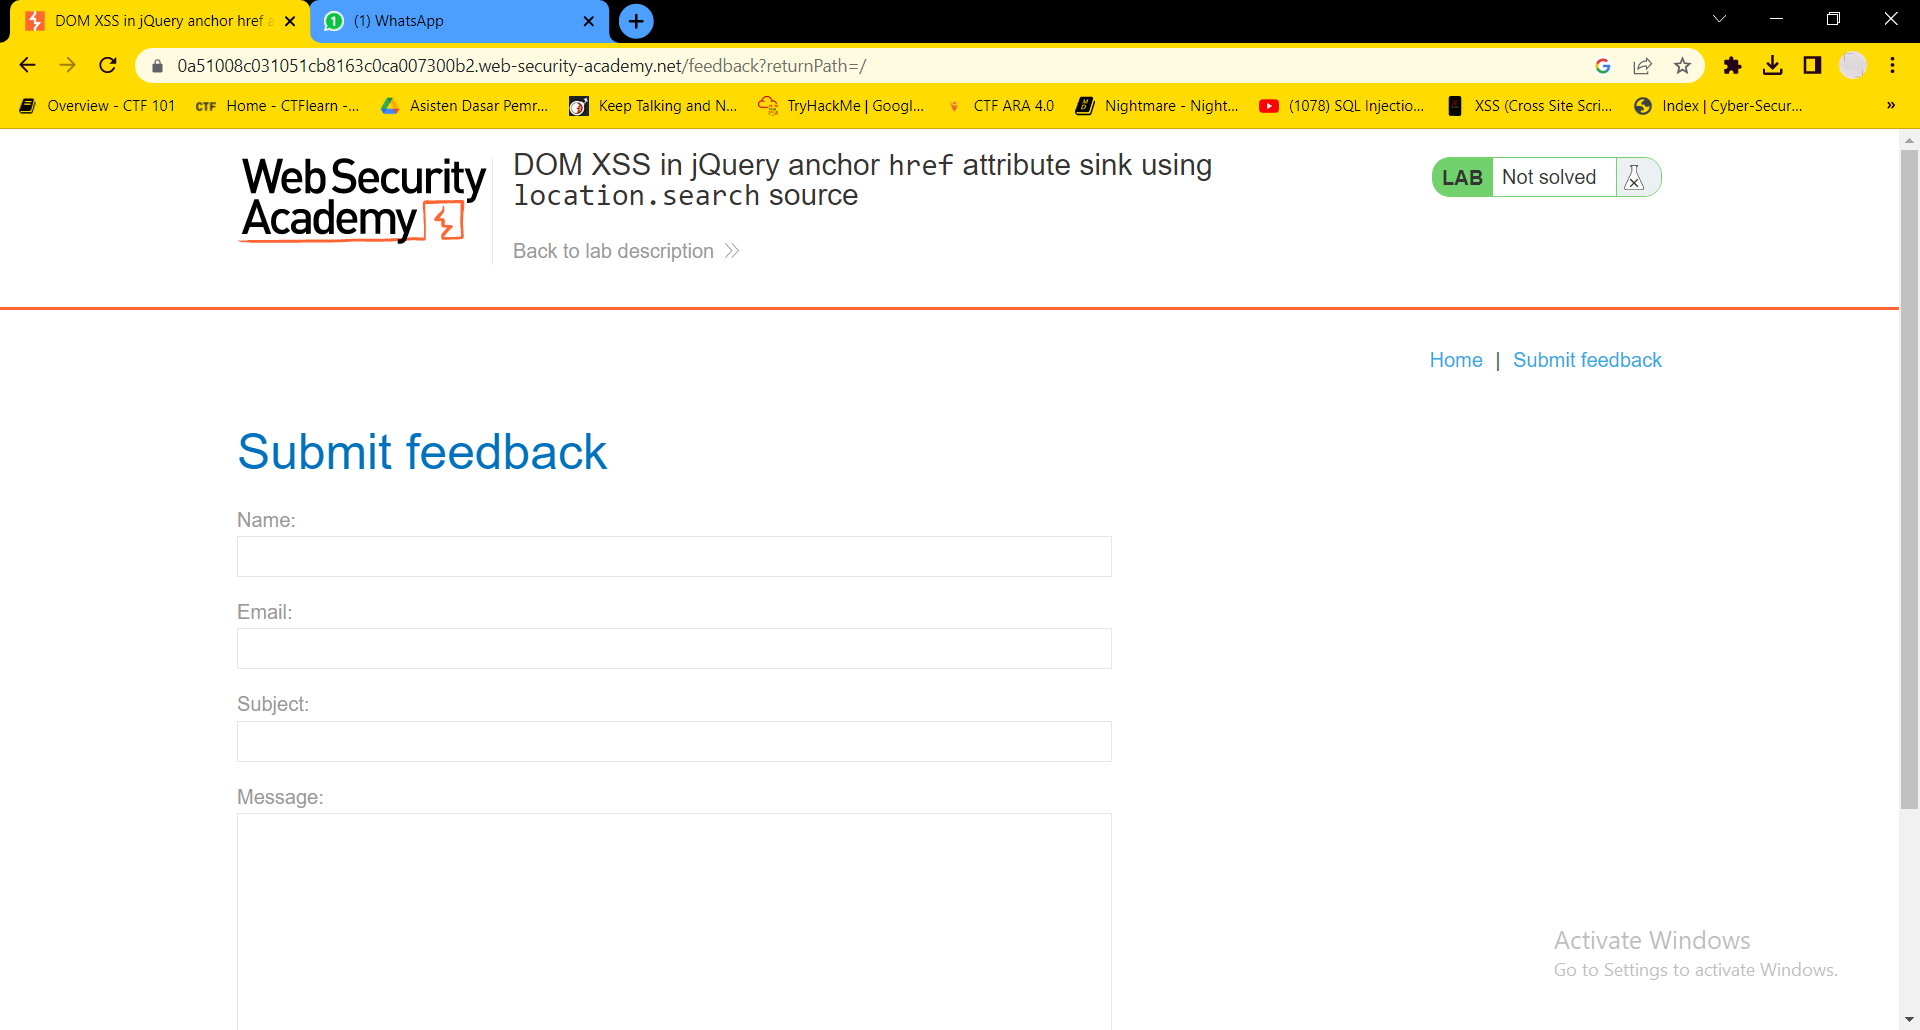
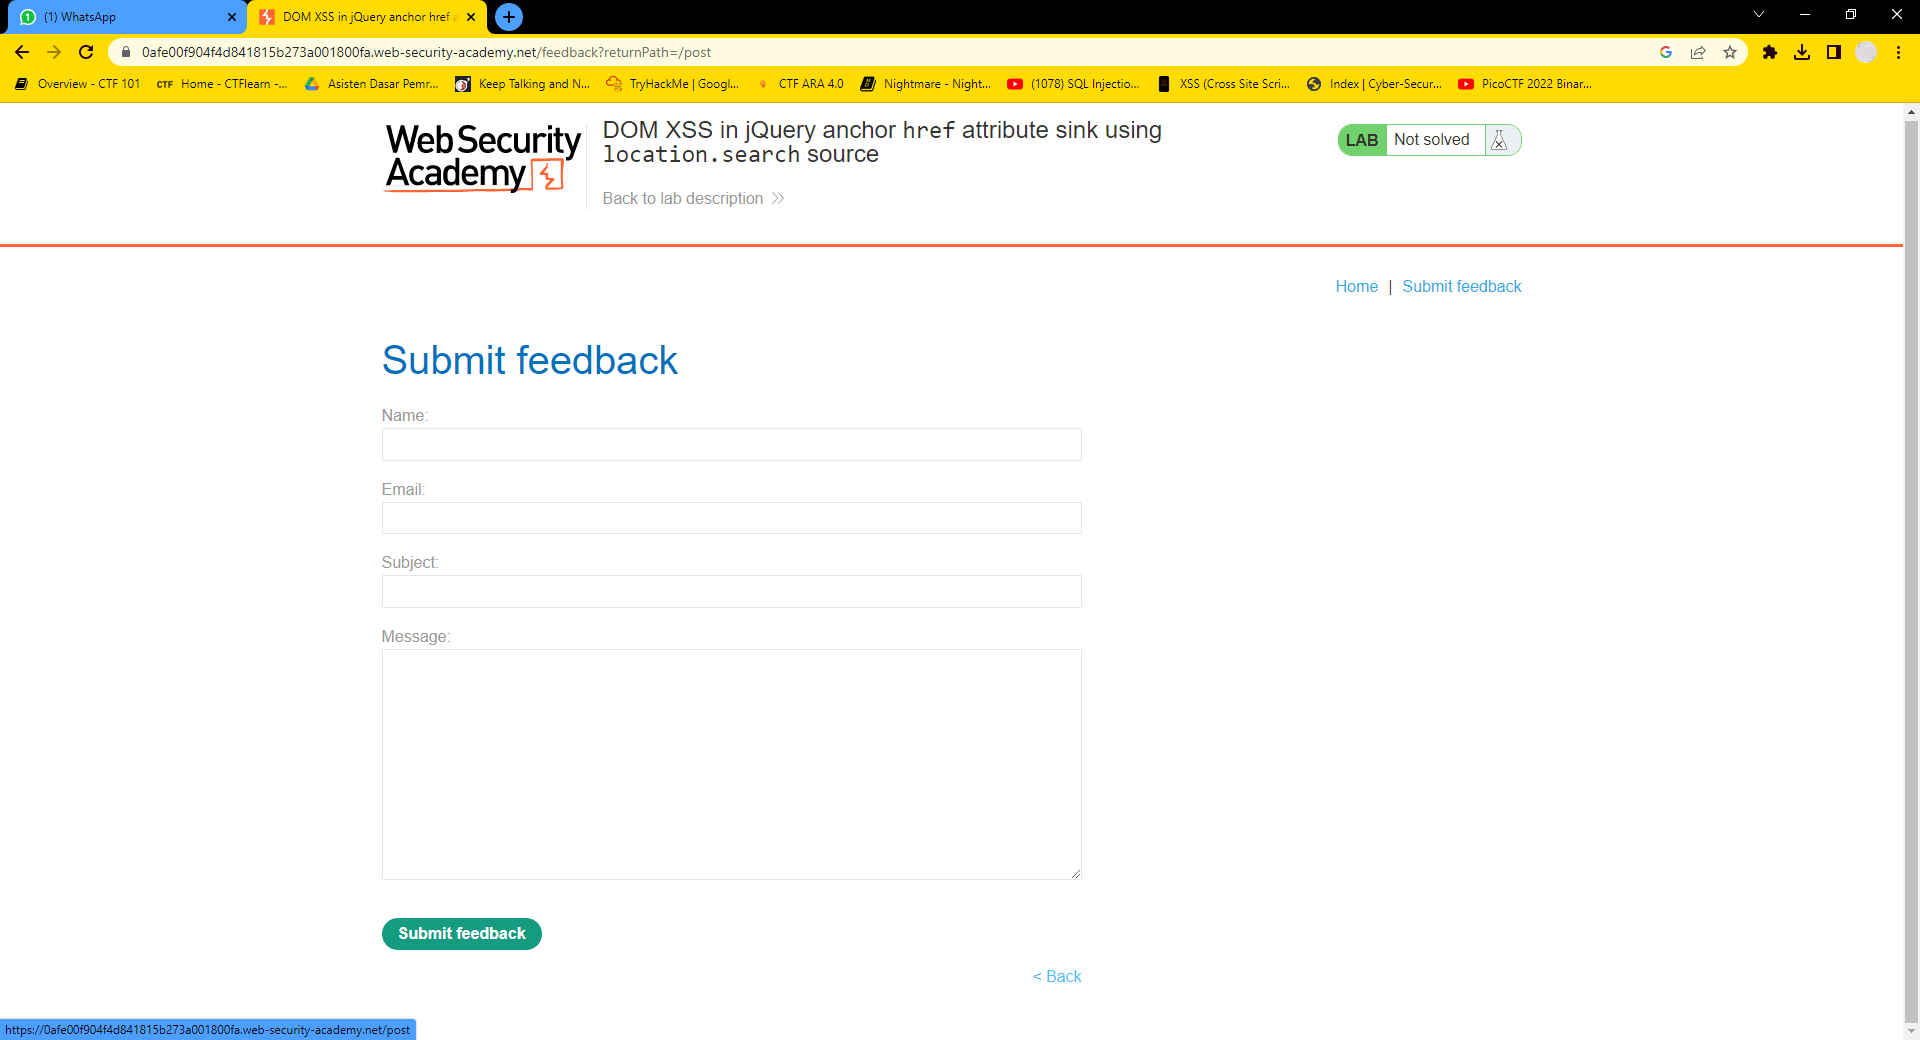
change submit apge image

diff --git a/DOM XSS in jQuery anchor href attribute sink using location.search source/README.md b/DOM XSS in jQuery anchor href attribute sink using location.search source/README.md
@@ -1,1 +1,6 @@
 # DOM XSS in jQuery anchor href attribute sink using location.search source
+So here, we have feedback form where we able to submit form, going back to home, etc.
+
+<div style="text-align: center; margin-top: 10px">
+    <img src="https://github.com/DJumanto/Portswigger-XSS/blob/main/DOM%20XSS%20in%20jQuery%20anchor%20href%20attribute%20sink%20using%20location.search%20source/submit-feedback-page.png?raw=true" alt="submit form page">
+</div>
